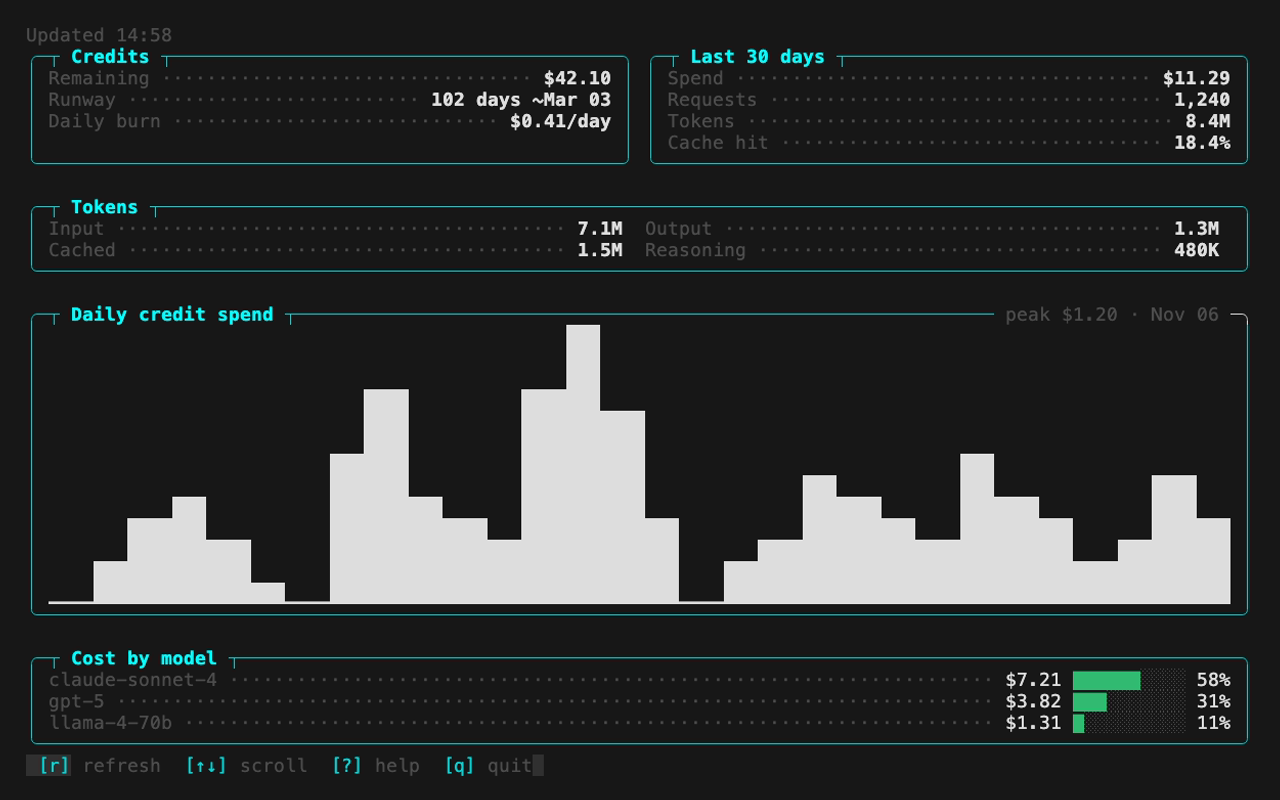
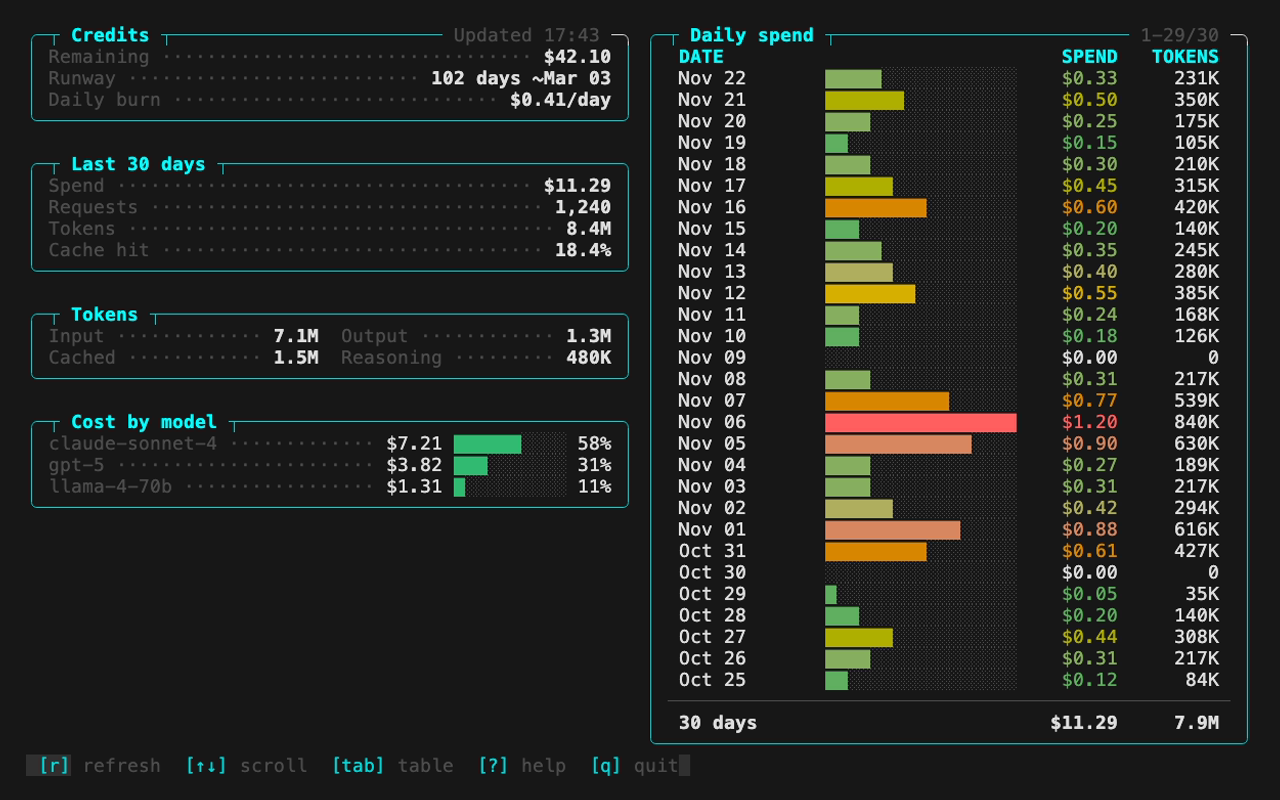
docs: recapture the site screenshot with the v1.3.0 dashboard

diff --git a/site/index.html b/site/index.html
@@ -56,7 +56,7 @@
         <source srcset="assets/images/terminal-demo.avif" type="image/avif">
         <source srcset="assets/images/terminal-demo.webp" type="image/webp">
         <img src="assets/images/terminal-demo.webp" width="1280" height="800"
-             alt="RouteBurn terminal dashboard showing a credits panel with remaining balance, runway, and daily burn, a last-30-days panel, a daily credit spend chart, and a cost-by-model panel.">
+             alt="RouteBurn terminal dashboard with a left sidebar of panels — credits with remaining balance, runway and daily burn, last-30-days totals, token split, and cost by model — beside a full-height daily spend table whose rows carry heat-coloured inline bars from green to red.">
       </picture>
       <figcaption>Synthetic example data — no real account figures.</figcaption>
     </figure>
@@ -66,10 +66,10 @@
     <h2 id="features-title">Features</h2>
     <ul class="feature-list">
       <li><strong>Credit balance and recent cost monitoring.</strong> Remaining account credit as a single figure, plus spend, requests, tokens, and cache-hit rate for the last 30 days.</li>
-      <li><strong>Daily spend chart.</strong> 30 daily UTC buckets rendered as a block sparkline, with the peak day named in the panel caption.</li>
+      <li><strong>Daily spend table.</strong> 30 daily UTC buckets as a scrollable table — date, spend, tokens, requests, and cache hit rate, newest first, with a pinned total row and an inline per-day meter heat-coloured green to red by share of the peak day.</li>
       <li><strong>Cost by model.</strong> Model spend for the same window, ranked with an inline proportional meter and an <code>Other (remaining)</code> rollup.</li>
       <li><strong>Credit-runway estimate.</strong> Days until the balance reaches zero at the recent burn rate, with low-confidence and edge cases labelled instead of guessed.</li>
-      <li><strong>Built on Charmbracelet Bubbles.</strong> The help bar, refresh spinner, and pagination dots are Bubbles components in a full-screen alternate-screen layout.</li>
+      <li><strong>Built on Charm v2.</strong> The help bar, refresh spinner, pagination dots, and the daily table are Charm components in a full-screen alternate-screen layout; on wide terminals the panels stack in a sidebar beside the table.</li>
       <li><strong>Offline snapshot cache.</strong> The last successful refresh renders immediately on startup, explicitly labelled with its age.</li>
       <li><strong>Scriptable.</strong> <code>routeburn --json</code> prints a versioned snapshot for scripts and dashboards.</li>
       <li><strong>Polite API usage.</strong> Configurable refresh interval with a 10-second minimum, plus server-directed throttling when OpenRouter asks to slow down.</li>
